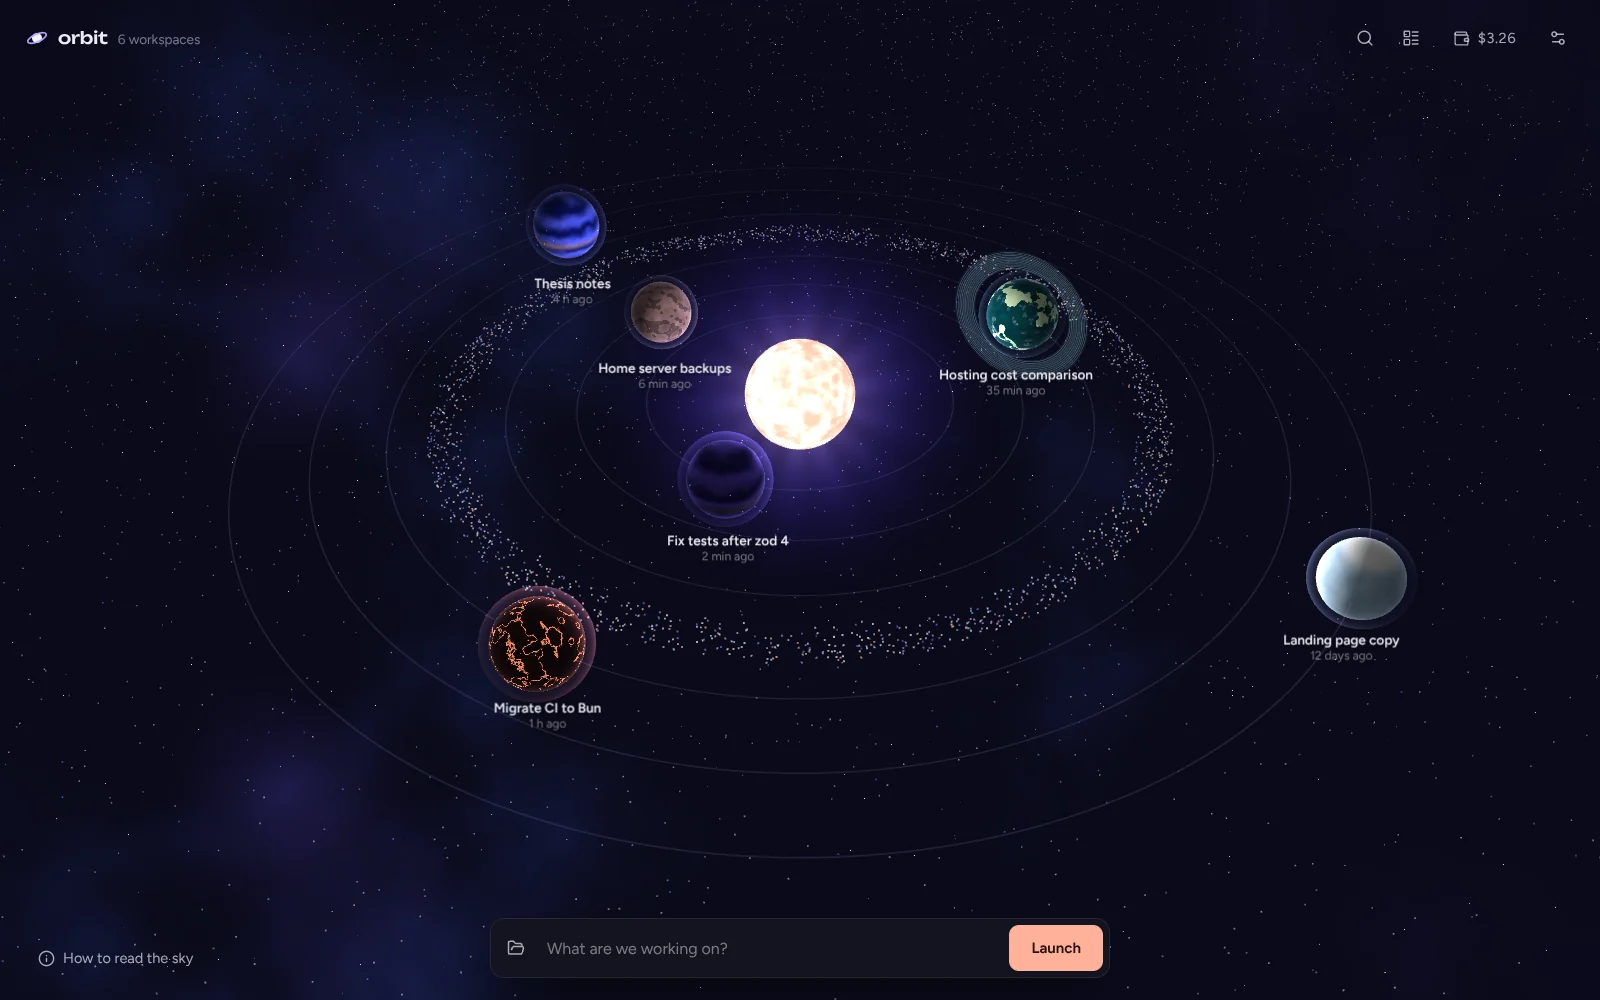
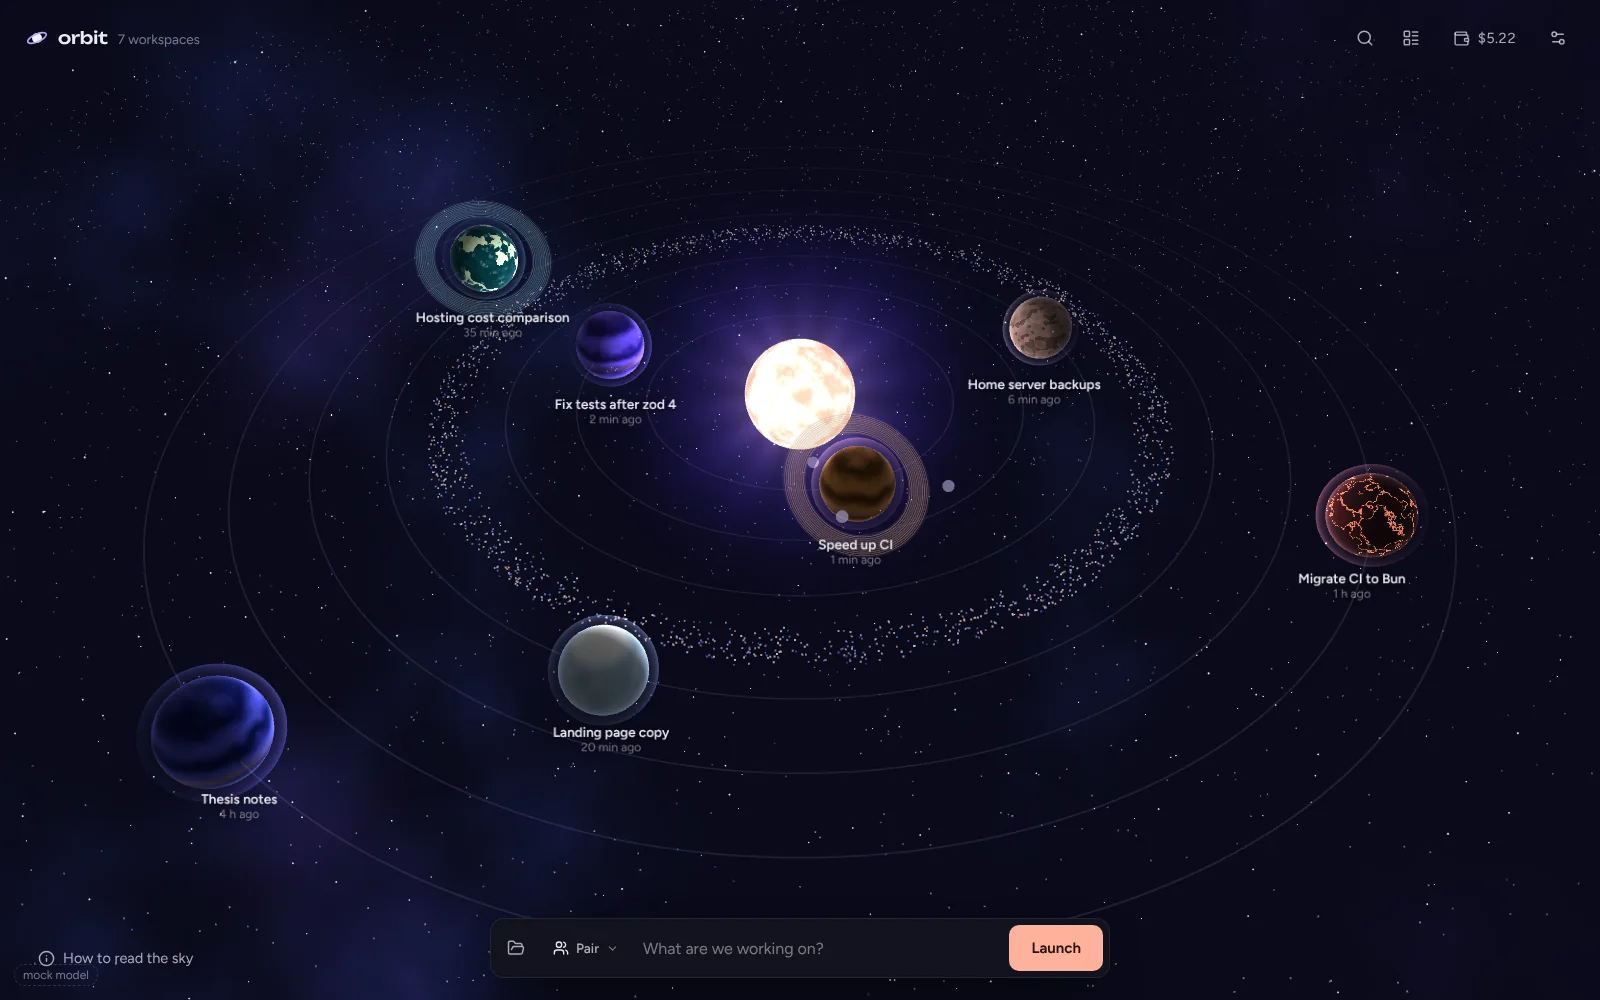
Demo: a lead with three helpers, a doc with comments, a board

diff --git a/scripts/demo.ts b/scripts/demo.ts
@@ -181,6 +181,120 @@ workspace({ title: "Migrate CI to Bun", dir: "ci", style: { color: "#E58C78", su
 workspace({ title: "Thesis notes", dir: "thesis", style: { color: "#3E5BC8", surface: "gas", rings: false }, minutesAgo: 240, tokens: 820_000 });
 workspace({ title: "Landing page copy", dir: "landing", style: { color: "#8FB3C6", surface: "ice", rings: false }, minutesAgo: 12 * 24 * 60, tokens: 40_000 });
 
+// 7. helpers: one lead sends three helpers at once
+{
+  const calls = { a: "toolu_demo_helper_a", b: "toolu_demo_helper_b", c: "toolu_demo_helper_c" };
+  const { wid, cwd } = workspace({
+    title: "Speed up CI",
+    dir: "acme-web",
+    style: { color: "#D9A85B", surface: "rock", rings: true },
+    mode: "auto",
+    minutesAgo: 1,
+    steps: [
+      { user: "CI takes 14 minutes. Find out where the time goes and cut it, without skipping any tests." },
+      {
+        assistant: [
+          { type: "text", text: "Three separate jobs, so three helpers at once: one measures, one splits the end to end suite on its own branch, one reviews the cache setup." },
+          { type: "tool_use", id: calls.a, name: "delegate", input: { agent: "explorer", name: "Where the 14 minutes go", task: "Read the last 20 CI runs in .github/workflows and the logs in ci-logs/. Report the slowest steps with their median time." } },
+          { type: "tool_use", id: calls.b, name: "delegate", input: { agent: "builder", name: "Shard the e2e suite", isolate: true, paths: ["e2e", ".github/workflows"], task: "Split the Playwright suite in e2e/ into 4 shards in CI. Keep every test. Run it locally to check the shards add up to the full suite." } },
+          { type: "tool_use", id: calls.c, name: "delegate", input: { agent: "reviewer", name: "Check the dependency cache", task: "Review how .github/workflows/ci.yml caches node_modules and the Playwright browsers. Report anything that makes the cache miss." } },
+        ],
+        results: [
+          { id: calls.a, content: "Helper finished. Report: e2e 8m 40s, install 2m 10s, unit tests 1m 30s." },
+          { id: calls.b, content: "Helper finished on branch orbit/shard-the-e2e-suite-4f2a." },
+          { id: calls.c, content: "Helper finished. Report: the cache key includes the lockfile hash and the run id." },
+        ],
+      },
+      {
+        assistant: [
+          {
+            type: "text",
+            text: "Most of the time was the end to end suite running on one machine, and a dependency cache that never hit.\n\n- **Shards:** the e2e suite now runs on 4 machines; all 186 tests still run, about 2m 30s each. It's on its own branch for you to merge.\n- **Cache:** the key included `github.run_id`, so every run started cold. Dropping it saves about 2 minutes.\n\nTogether that should bring CI from 14 minutes to about 5.",
+          },
+        ],
+      },
+    ],
+    calls: [
+      { id: calls.a, by: "builtin", ms: 41_000 },
+      { id: calls.b, by: "builtin", ms: 188_000 },
+      { id: calls.c, by: "builtin", ms: 36_000 },
+    ],
+  });
+  const helper = (o: { call: string; agent: string; title: string; model: string; report: string; branch?: string; cost: number; task: string; work: string }) => {
+    const hid = id("w_");
+    db.run(
+      "INSERT INTO workspaces (id, title, cwd, mode, style, titled, parent_id, agent, model, helper_state, report, branch, call_id, created_at, updated_at) VALUES (?,?,?,?,?,1,?,?,?,?,?,?,?,?,?)",
+      [hid, o.title, cwd, "auto", "{}", wid, o.agent, o.model, "done", o.report, o.branch ?? "", o.call, t0 - 3 * MIN, t0 - MIN],
+    );
+    db.run("INSERT INTO messages (id, workspace_id, role, content, created_at) VALUES (?,?,?,?,?)", [id("m_"), hid, "user", JSON.stringify([{ type: "text", text: o.task }]), t0 - 3 * MIN]);
+    db.run("INSERT INTO messages (id, workspace_id, role, content, created_at) VALUES (?,?,?,?,?)", [id("m_"), hid, "assistant", JSON.stringify([{ type: "text", text: `${o.work}\n\n${o.report}` }]), t0 - MIN]);
+    db.run("INSERT INTO usage (workspace_id, kind, model, input, output, cache_read, cache_write, cost, created_at) VALUES (?,?,?,?,?,?,?,?,?)", [hid, "pilot", o.model, 30000, 4000, 90000, 6000, o.cost, t0 - MIN]);
+  };
+  helper({
+    call: calls.a,
+    agent: "explorer",
+    title: "Where the 14 minutes go",
+    model: "claude-sonnet-5-5",
+    cost: 0.21,
+    task: "Read the last 20 CI runs in .github/workflows and the logs in ci-logs/. Report the slowest steps with their median time.",
+    work: "Reading the workflow and the 20 newest logs.",
+    report: "Outcome: done, 20 runs measured.\n\n- **e2e** 8m 40s median, one machine (`ci.yml:48`)\n- **install** 2m 10s, the cache never hits\n- **unit tests** 1m 30s, already parallel\n\nFiles changed: none.",
+  });
+  helper({
+    call: calls.b,
+    agent: "builder",
+    title: "Shard the e2e suite",
+    model: "claude-opus-5-5",
+    cost: 1.36,
+    branch: "orbit/shard-the-e2e-suite-4f2a",
+    task: "Split the Playwright suite in e2e/ into 4 shards in CI. Keep every test. Run it locally to check the shards add up to the full suite.",
+    work: "Adding a matrix of four shards and running each locally.",
+    report: "Outcome: done. 4 shards, 186 tests, the same 186 as before.\n\n- `ci.yml`: a `shard: [1, 2, 3, 4]` matrix and `--shard=${{ matrix.shard }}/4`\n- each shard about 2m 30s locally\n\nFiles changed: .github/workflows/ci.yml, e2e/playwright.config.ts",
+  });
+  helper({
+    call: calls.c,
+    agent: "reviewer",
+    title: "Check the dependency cache",
+    model: "claude-opus-5-5",
+    cost: 0.34,
+    task: "Review how .github/workflows/ci.yml caches node_modules and the Playwright browsers. Report anything that makes the cache miss.",
+    work: "Reading the cache steps.",
+    report: "Outcome: one real problem.\n\n1. **High:** the key ends in `${{ github.run_id }}` (`ci.yml:22`), so it never matches. Use the lockfile hash alone.\n2. Low: the Playwright browsers aren't cached at all.\n\nFiles changed: none.",
+  });
+}
+
+// 8. a doc with comments, and a whiteboard
+{
+  const { createDoc, addComment, getDoc } = await import("../server/docs");
+  const { apply } = await import("../server/board");
+  const lp = db.query<{ id: string }, []>("SELECT id FROM workspaces WHERE title = 'Landing page copy'").get()!.id;
+  db.run("UPDATE workspaces SET updated_at = ? WHERE id = ?", [t0 - 20 * MIN, lp]);
+  const d = createDoc(
+    lp,
+    "Launch plan",
+    "# Launch plan\n\n## Goal\nShip the public beta on the 14th with the API, the docs and a status page.\n\n## Steps\n1. Freeze the API on the 7th; only fixes after that.\n2. Write the getting started guide and the API reference.\n3. Set up the status page and the alerts behind it.\n4. Invite the first 50 people from the waiting list.\n\n## Risks\n- The billing provider still needs to approve the account.\n- Two of the five integration tests fail on Windows.\n",
+    "agent",
+  );
+  const c = addComment(d, { author: "user", quote: "Write the getting started guide and the API reference.", body: "Can the API reference come later? It takes longer than the guide." });
+  addComment(getDoc(d.id)!, { author: "agent", parent_id: c.id, body: "Yes. The reference can be generated from the OpenAPI file in a day, so I moved it to after the freeze and kept the guide in step 2." });
+  addComment(getDoc(d.id)!, { author: "user", quote: "Invite the first 50 people", body: "Make it 30, support is just two of us." });
+  const host = db.query<{ id: string }, []>("SELECT id FROM workspaces WHERE title = 'Hosting cost comparison'").get()!.id;
+  apply(
+    host,
+    [
+      { op: "add", kind: "frame", ref: "opts", title: "Three ways to host it", x: 0, y: 0, w: 780, h: 260 },
+      { op: "add", kind: "note", ref: "a", frame: "opts", text: "Hetzner\n137 CHF a month\nCheapest, backups extra", color: "mint" },
+      { op: "add", kind: "note", ref: "b", frame: "opts", text: "UpCloud\n217 CHF a month\nManaged backups", color: "sky" },
+      { op: "add", kind: "note", ref: "c", frame: "opts", text: "Infomaniak\n241 CHF a month\nSwiss, green power", color: "lavender" },
+      { op: "add", kind: "checklist", ref: "todo", title: "Before we pick", x: 0, y: 320, items: [{ text: "Check egress pricing", done: true }, { text: "Ask about IPv6", done: false }, { text: "Test a restore from backup", done: false }] },
+      { op: "add", kind: "text", ref: "rec", x: 330, y: 330, w: 450, text: "**Recommendation:** Hetzner, with a nightly offsite backup. The savings pay for the backup twice over." },
+      { op: "add", kind: "link", ref: "l", x: 330, y: 470, url: "https://www.hetzner.com/cloud", title: "Hetzner Cloud pricing" },
+      { op: "connect", from: "a", to: "rec", label: "pick" },
+    ],
+    "agent",
+  );
+}
+
 db.run("INSERT INTO pins (workspace_id, text, created_at) SELECT id, 'The API package is published to npm as @acme/api; never change exported types without a major version.', ? FROM workspaces WHERE title = 'Fix tests after zod 4'", [t0]);
 
 console.log(`demo data in ${home}`);
